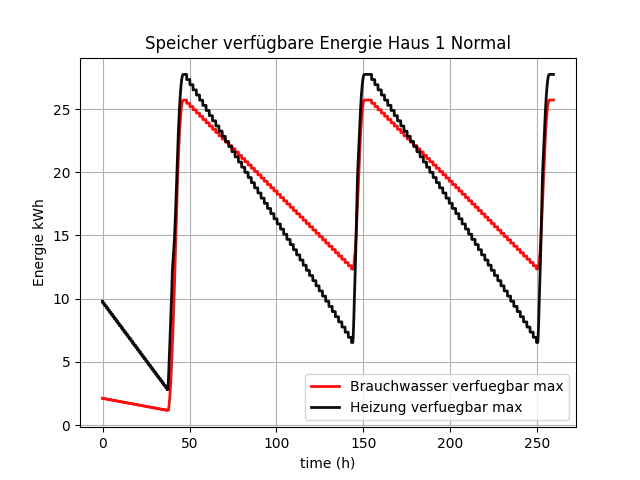
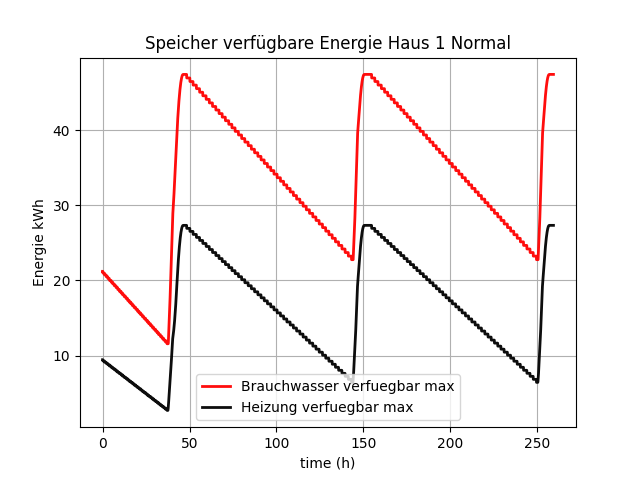
energie warmwasser neu bez 15C

diff --git a/util_modell_speicher_dezentral.py b/util_modell_speicher_dezentral.py
@@ -22,6 +22,7 @@ logger = logging.getLogger("simulation")
 
 TEMPERATURGRENZE_BRAUCHWASSER_C = 42.0
 """Diese Temperatur wird fuer Brauchwasser mindestens gebraucht"""
+KALTWASSER_C = 15.0  # mit dieser Temperatur kommt das Wasser vom Wasserwerk
 
 
 class DumpSchichtung:
@@ -60,6 +61,7 @@ class PlotSpeicher:
         self.energie_verfuegbar_brauchwasser_kWh.append(
             self.speicher._waermeintegral_J(
                 temperaturgrenze_C=TEMPERATURGRENZE_BRAUCHWASSER_C,
+                rueckfluss_C=KALTWASSER_C,
                 entnahmehoehe_anteil_von_unten=1.0,
             )
             / (3600 * 1000)
@@ -67,6 +69,7 @@ class PlotSpeicher:
         self.energie_verfuegbar_heizung_kWh.append(
             self.speicher._waermeintegral_J(
                 temperaturgrenze_C=self.modell.zentralheizung.heizkurve_heizungswasser_C,
+                rueckfluss_C=self.speicher.ruecklauf_bodenheizung_C,
                 entnahmehoehe_anteil_von_unten=self.speicher.anteil_auslass_von_unten,
             )
             / (3600 * 1000)
@@ -155,6 +158,7 @@ class PlotEnergiereserve:
         self.energie_verfuegbar_brauchwasser_kWh.append(
             self.speicher._waermeintegral_J(
                 temperaturgrenze_C=TEMPERATURGRENZE_BRAUCHWASSER_C,
+                rueckfluss_C=KALTWASSER_C,
                 entnahmehoehe_anteil_von_unten=1.0,
             )
             / (3600 * 1000)
@@ -162,6 +166,7 @@ class PlotEnergiereserve:
         self.energie_verfuegbar_heizung_kWh.append(
             self.speicher._waermeintegral_J(
                 temperaturgrenze_C=self.modell.zentralheizung.heizkurve_heizungswasser_C,
+                rueckfluss_C=self.speicher.ruecklauf_bodenheizung_C,
                 entnahmehoehe_anteil_von_unten=self.speicher.anteil_auslass_von_unten,
             )
             / (3600 * 1000)
@@ -325,7 +330,11 @@ class Speicher_dezentral:
         self.packet_liste.append([self.startTempC, self.totalvolumen_m3 - volumen_m3])
         self.packet_liste.sort(reverse=True)
 
-    def _waermeintegral_J(self, temperaturgrenze_C, entnahmehoehe_anteil_von_unten):
+    def _waermeintegral_J(
+        self, temperaturgrenze_C, rueckfluss_C, entnahmehoehe_anteil_von_unten
+    ):
+        # temperaturgrenze_C: muss mindestens diese Temperatur haben
+        # rueckfluss_C: mit dieser Temperatur fliesst Wasser zurueck. Brauchwasser z.B. 15C
         # Ruckzuckloesung: Tank in Schritten zerlegen und jeden Schritt summieren
         schrittweite = 0.01  # je feiner je genauer, dafuer aufwaendiger
         volumenschritt_m3 = self.totalvolumen_m3 * schrittweite
@@ -335,13 +344,14 @@ class Speicher_dezentral:
         energie_J = 0.0
         while volumenposition_m3 > 0.0:
             temperatur_C = np.interp(volumenposition_m3, volumen_y, temperaturen_x)
-            energie_J += max(
-                (temperatur_C - temperaturgrenze_C)
-                * volumenschritt_m3
-                * WASSER_WAERMEKAP
-                * DICHTE_WASSER,
-                0.0,
-            )
+            if temperatur_C >= temperaturgrenze_C:
+                energie_J += max(
+                    (temperatur_C - rueckfluss_C)
+                    * volumenschritt_m3
+                    * WASSER_WAERMEKAP
+                    * DICHTE_WASSER,
+                    0.0,
+                )
             volumenposition_m3 -= volumenschritt_m3
             # print(f'volumenposition_m3 {volumenposition_m3:0.3f}, volumenschritt_m3 {volumenschritt_m3}, temperatur_C {temperatur_C:0.1f}, energie_J {energie_J:0.0f}')
         # print(f'Waemeintegral temperaturgrenze_C {temperaturgrenze_C} entnahmehoehe_anteil {entnahmehoehe_anteil_von_unten} energie_J {energie_J:0.3f}')
@@ -476,14 +486,13 @@ class Speicher_dezentral:
         """
         Das Wasser wird zuoberst abgenommen.
         """
-        kaltwasser_C = 15.0
         if energie_J < 1e-9:
-            return kaltwasser_C
+            return KALTWASSER_C
         verbleibende_energie_J = energie_J
         summe_bezogenes_volumen_m3 = 0.0
         while True:
             tempC, volumen_m3 = self.packet_liste[0]
-            temperaturhub_C = tempC - kaltwasser_C
+            temperaturhub_C = tempC - KALTWASSER_C
             packet_energie_J = (
                 volumen_m3 * temperaturhub_C * WASSER_WAERMEKAP * DICHTE_WASSER
             )
@@ -511,7 +520,7 @@ class Speicher_dezentral:
                 )
 
             if summe_bezogenes_volumen_m3 > 0.0:
-                self.packet_liste.insert(0, [kaltwasser_C, summe_bezogenes_volumen_m3])
+                self.packet_liste.insert(0, [KALTWASSER_C, summe_bezogenes_volumen_m3])
                 self.packet_liste.sort(reverse=True)
 
             # self.warnung_falls_volumenveraenderung()
